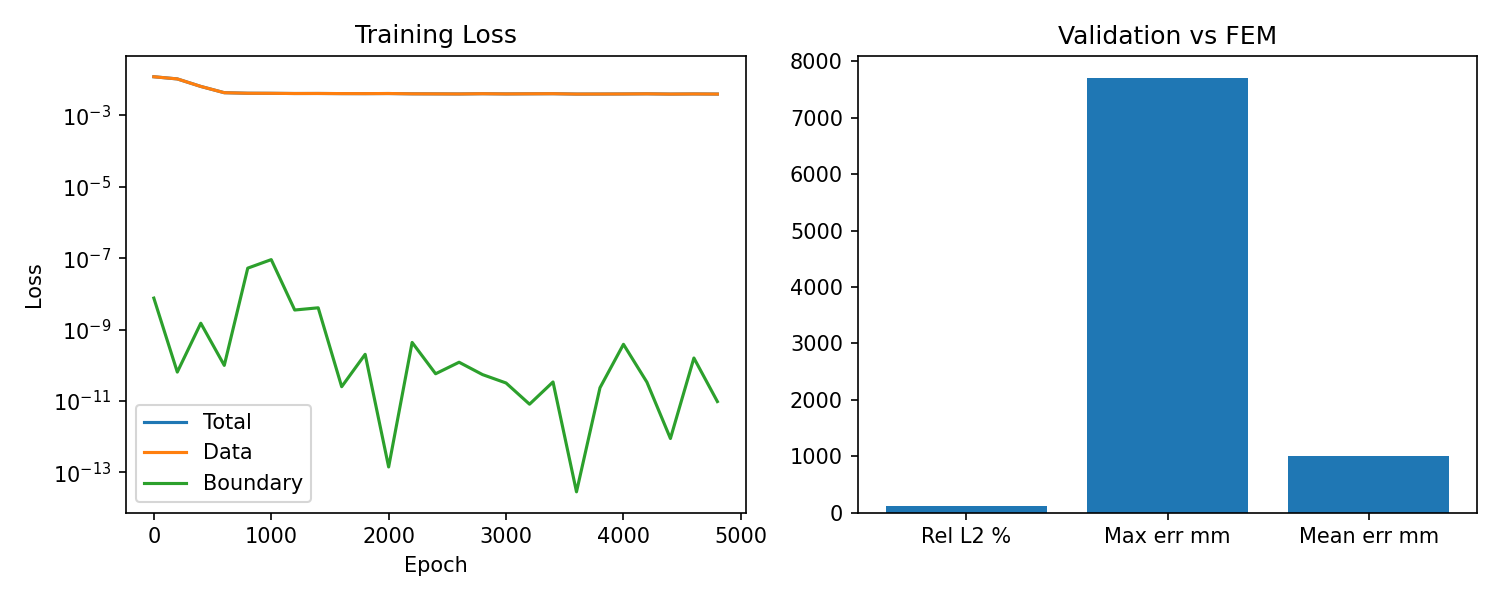
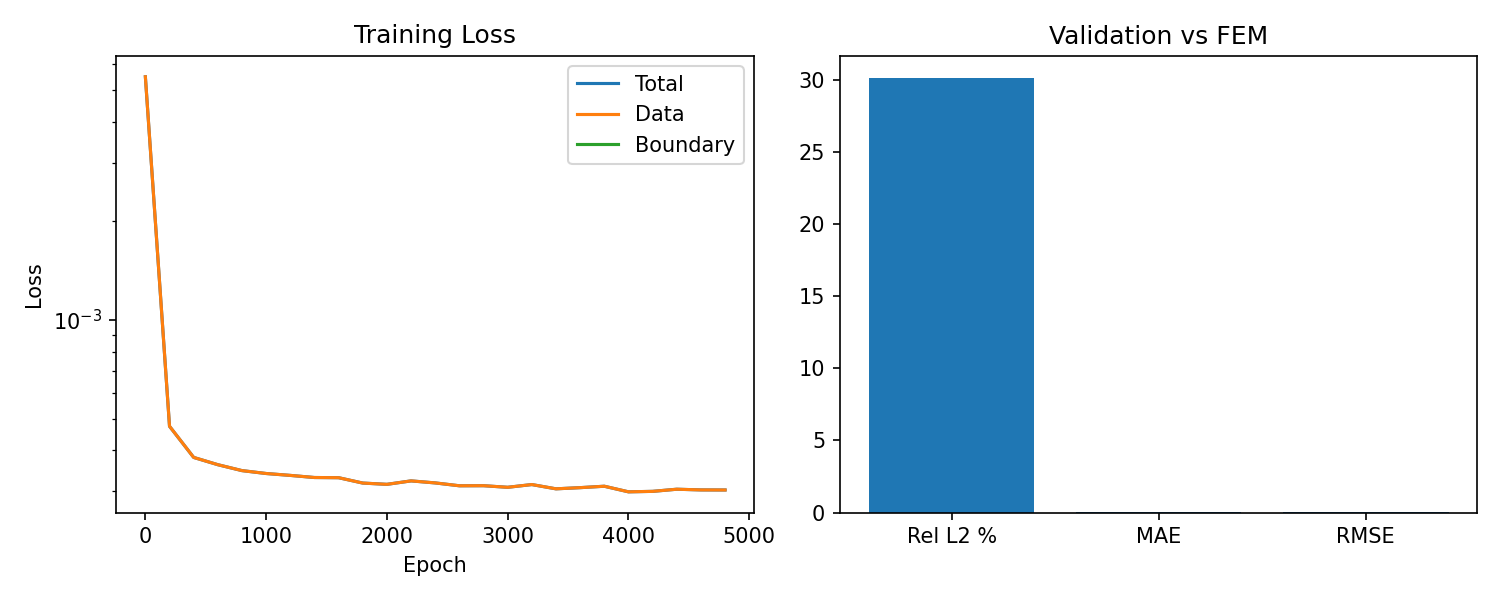
changes

diff --git a/train/train_pinn.py b/train/train_pinn.py
@@ -51,10 +51,13 @@ print(f"Rows after cleaning: {len(df)}")
 print(f"  Rows loaded: {len(df)}")
 print(f"  Columns:     {len(df.columns)}")
 
-# Compute compressed solver features
-force_cols_x = [f'fvx{i}' for i in range(181)]
-force_cols_y = [f'fvy{i}' for i in range(181)]
-force_cols_z = [f'fvz{i}' for i in range(181)]
+# Compute compressed solver features (use actual columns present)
+force_cols_x = sorted(
+    [c for c in df.columns if c.startswith('fvx')],
+    key=lambda c: int(c[3:])
+)
+force_cols_y = [c.replace('fvx', 'fvy', 1) for c in force_cols_x]
+force_cols_z = [c.replace('fvx', 'fvz', 1) for c in force_cols_x]
 vel_cols_y   = [f'vvy{i}' for i in range(181)]
 prev_cols_y  = [f'pdy{i}' for i in range(181)]
 prev_dy_cols = [f'pdy{i}' for i in range(181)]
@@ -81,28 +84,72 @@ print(df['f_total_z'].describe())
 print(df['f_max_mag'].describe())
 print(df['f_n_contact'].describe())
 
-prev_dx_cols = [f'pdx{i}' for i in range(181)]
-prev_dy_cols = [f'pdy{i}' for i in range(181)]
-prev_dz_cols = [f'pdz{i}' for i in range(181)]
+# Pick the most active vertex (skip fixed indices)
+dy_cols = [c for c in df.columns if c.startswith('dy')]
+dy_max = df[dy_cols].abs().max()
+best_vertex_id = None
+for col in dy_max.sort_values(ascending=False).index:
+    vid = int(col[2:])
+    if vid not in FIXED_INDICES:
+        best_vertex_id = vid
+        break
+if best_vertex_id is None:
+    best_vertex_id = 0
+print(f"Most active vertex: {best_vertex_id}")
+
+
+prev_dx_cols = [f'pdx{i}' for i in range(181) if i not in FIXED_INDICES]
+prev_dy_cols = [f'pdy{i}' for i in range(181) if i not in FIXED_INDICES]
+prev_dz_cols = [f'pdz{i}' for i in range(181) if i not in FIXED_INDICES]
+
+
+# df['curr_delta_x'] = df[f'dx{best_vertex_id}'] - df[f'pdx{best_vertex_id}']
+# df['curr_delta_y'] = df[f'dy{best_vertex_id}'] - df[f'pdy{best_vertex_id}']
+# df['curr_delta_z'] = df[f'dz{best_vertex_id}'] - df[f'pdz{best_vertex_id}']
+prev_all_cols = []
+for i in range(N_VERTICES):
+    if i not in FIXED_INDICES:
+        prev_all_cols += [f'pdx{i}', f'pdy{i}', f'pdz{i}']
+
+
+# Compressed accumulated stress (summary stats, not all 543)
+sax_cols = [f'sax{i}' for i in range(181)]
+say_cols = [f'say{i}' for i in range(181)]
+
+df['stress_max'] = np.sqrt(
+    df[sax_cols].values**2 + 
+    df[say_cols].values**2).max(axis=1)
+df['stress_mean'] = np.sqrt(
+    df[sax_cols].values**2 + 
+    df[say_cols].values**2).mean(axis=1)
+df['stress_n_active'] = (df[say_cols].abs() > 0.001).sum(axis=1)
+
 
 input_cols = [
     'tool_x',    'tool_y',    'tool_z',
     'tool_vx',   'tool_vy',   'tool_vz',
     'tool_fx',   'tool_fy',   'tool_fz',
-    'v_max_mag',
-    'pd_max_mag','pd_mean_mag',
-] + prev_dx_cols + prev_dy_cols + prev_dz_cols  # ← add previous displacements as inputs for temporal context
+    'stress_max', 'stress_mean', 'stress_n_active',  # ← ADD
+ ]+ prev_all_cols
 
-N_INPUTS = 555  # 9 original + 3 force features + 3 velocity features + 543 previous displacements = 558 total inputs
 
-# ── Outputs (N_VERTICES * 3 values) ──────────────────────────
+df = df.dropna().copy()
+# ── 4. Dynamic Dimensionality (No Hardcoding!) ───────────────────────────────
+N_INPUTS = len(input_cols)  # Dynamically evaluates to 27, ensuring no PyTorch crashes
+
+# ── 5. Align Outputs with What We Want to Predict ────────────────────────────
+# We are predicting the frame-to-frame delta movements
 deform_cols = []
 for i in range(N_VERTICES):
-    deform_cols += [f'dx{i}', f'dy{i}', f'dz{i}']
+    if i not in FIXED_INDICES:
+        deform_cols += [f'dx{i}', f'dy{i}', f'dz{i}']
+N_OUT = len(deform_cols)  # 178 * 3 = 534
 
 # Check all columns exist
 missing_in = [c for c in input_cols  if c not in df.columns]
 missing_out= [c for c in deform_cols if c not in df.columns]
+
+
 if missing_in:
     raise ValueError(f"Missing input columns: {missing_in}\n"
                      f"Available: {list(df.columns[:15])}")
@@ -117,13 +164,10 @@ idx = torch.argmin(stds)
 print("Smallest std column:", input_cols[idx])
 print("X std min/max:", stds.min().item(), "/", stds.max().item())
 
-# Remove zero variance columns
-valid_mask = stds > 1e-6
-input_cols = [c for c, v in zip(input_cols, valid_mask.tolist()) if v]
 N_INPUTS = len(input_cols)
-X_raw_tensor = X_raw_tensor[:, valid_mask]
-print(f"Valid inputs after removing zero-variance: {N_INPUTS}")
-Y_raw_tensor = torch.FloatTensor(df[deform_cols].values)  # (N, 543)
+print(f"Inputs kept (no variance filtering): {N_INPUTS}")
+
+Y_raw_tensor = torch.FloatTensor(df[deform_cols].values)  # (N, 3)
 
 force_mag = X_raw_tensor[:, 6:9].norm(dim=1)
 force_mask = force_mag > 0.01
@@ -142,16 +186,16 @@ Y_all = Y_raw_tensor
 
 # ── Chronological Split (Prevents data leakage!) ───────────────
 # ADD before n_train split:
-perm = torch.randperm(len(X_all))
-X_all = X_all[perm]
-Y_all = Y_all[perm]
+perm_all = torch.randperm(len(X_all))
+X_all_shuffled = X_all[perm_all]
+Y_all_shuffled = Y_all[perm_all]
 n_train = int(TRAIN_SPLIT * len(X_all))
 
 X_train_raw = X_all[:n_train]
 Y_train_raw = Y_all[:n_train]
 
-X_test_raw = X_all[n_train:]
-Y_test_raw = Y_all[n_train:]  # Held out clean test data
+X_test_raw = X_all_shuffled[n_train:]
+Y_test_raw = Y_all_shuffled[n_train:]  # Held out clean test data
 
 Y_scale = float(Y_all.abs().max().item()) * 1.1
 print(f"  Y_scale from full data: {Y_scale:.4f}")
@@ -228,6 +272,8 @@ def loss_boundary(u_pred, fixed_idx):
     total = torch.tensor(0.0, device=u_pred.device)  # ← same device as u_pred
     for vi in fixed_idx:
         # NEW METHOD
+        if u_pred.shape[1] == 3:
+            return torch.tensor(0.0, device=u_pred.device)
         u_reshaped = u_pred.reshape(-1, 181, 3) 
         total = total + torch.mean(u_reshaped[:, vi, : ] ** 2)
     return total / len(fixed_idx)
@@ -295,14 +341,10 @@ for epoch in range(start_epoch, N_EPOCHS):
         # Data loss
         L_data = loss_data(u_pred, Y_batch)
 
-        # Boundary condition loss
-        # Convert prediction back to physical scale for BC loss
-        L_bc = loss_boundary(u_pred, FIXED_INDICES)
-
         # Physics weight — ramp up slowly
+        L_bc = loss_boundary(u_pred, FIXED_INDICES)
         progress = epoch / N_EPOCHS
-        w_bc = 0.1 + 0.4 * progress   
-
+        w_bc = 0.1 + 0.4 * progress
         L = L_data + w_bc * L_bc
 
         optimizer.zero_grad()
@@ -375,9 +417,14 @@ with torch.no_grad():
     rel_err = torch.norm(u_pred - u_true) / (torch.norm(u_true) + 1e-8)
     print(f"Relative L2 error:        {rel_err.item()*100:.2f}%")
 
-    # Pure PyTorch tracking avoids array type errors
-    diff = (u_pred - u_true).reshape(-1, N_VERTICES, 3)
-    per_vertex_err = torch.norm(diff, dim=2)
+    if N_OUT == 3:
+        per_sample_err = torch.norm(u_pred - u_true, dim=1)
+        print(f"Mean delta error:         {per_sample_err.mean().item():.6f}")
+        print(f"Max delta error:          {per_sample_err.max().item():.6f}")
+    else:
+        # Pure PyTorch tracking avoids array type errors
+        diff = (u_pred - u_true).reshape(-1, N_VERTICES, 3)
+        per_vertex_err = torch.norm(diff, dim=2)
 
     # ADD — visual comparison of one sample
     import matplotlib
@@ -391,49 +438,55 @@ with torch.no_grad():
     axes[0].set_title('Sample 0: Full deformation')
     axes[0].legend()
 
-    # Plot 2 — worst sample
-    worst_idx = per_vertex_err.max(dim=1).values.argmax().item()
-    axes[1].plot(u_true[worst_idx].numpy(), label='FEM true', alpha=0.7)
-    axes[1].plot(u_pred[worst_idx].numpy(), label='PINN pred', alpha=0.7)
-    axes[1].set_title(f'Worst sample ({worst_idx})')
-    axes[1].legend()
+    if N_OUT != 3:
+        # Plot 2 — worst sample
+        worst_idx = per_vertex_err.max(dim=1).values.argmax().item()
+        axes[1].plot(u_true[worst_idx].numpy(), label='FEM true', alpha=0.7)
+        axes[1].plot(u_pred[worst_idx].numpy(), label='PINN pred', alpha=0.7)
+        axes[1].set_title(f'Worst sample ({worst_idx})')
+        axes[1].legend()
 
-    # Plot 3 — best sample
-    best_idx = per_vertex_err.max(dim=1).values.argmin().item()
-    axes[2].plot(u_true[best_idx].numpy(), label='FEM true', alpha=0.7)
-    axes[2].plot(u_pred[best_idx].numpy(), label='PINN pred', alpha=0.7)
-    axes[2].set_title(f'Best sample ({best_idx})')
-    axes[2].legend()
+        # Plot 3 — best sample
+        best_idx = per_vertex_err.max(dim=1).values.argmin().item()
+        axes[2].plot(u_true[best_idx].numpy(), label='FEM true', alpha=0.7)
+        axes[2].plot(u_pred[best_idx].numpy(), label='PINN pred', alpha=0.7)
+        axes[2].set_title(f'Best sample ({best_idx})')
+        axes[2].legend()
 
     plt.tight_layout()
     plt.savefig('sample_comparison.png', dpi=150)
     print("Sample comparison saved to sample_comparison.png")
     
-    # Removed the multiplication by Y_scale since u_pred and u_true are already in raw physical scales
-    # CHANGE TO:
-    max_err_mm = per_vertex_err.max().item() * Y_scale * 1000
-    mean_err_mm = per_vertex_err.mean().item() * Y_scale * 1000
 
-    print(f"Max vertex error:         {max_err_mm:.3f} mm")
-    print(f"Mean vertex error:        {mean_err_mm:.4f} mm")
+    if N_OUT != 3:
+        # Removed the multiplication by Y_scale since u_pred and u_true are already in raw physical scales
+        # CHANGE TO:
+        max_err_mm = per_vertex_err.max().item() * Y_scale * 1000
+        mean_err_mm = per_vertex_err.mean().item() * Y_scale * 1000
 
-    # ← ADD HERE ↓
-    contact_mask = (np.linalg.norm(Y_test.numpy(), axis=1) > 0.001)
-    print(f"Contact frames in test:   {contact_mask.sum().item()} / {len(contact_mask)}")
+        print(f"Max vertex error:         {max_err_mm:.3f} mm")
+        print(f"Mean vertex error:        {mean_err_mm:.4f} mm")
 
-    rel_err_contact = torch.norm(u_pred[contact_mask] - u_true[contact_mask]) / \
-                    (torch.norm(u_true[contact_mask]) + 1e-8)
-    print(f"Relative L2 error (contact only): {rel_err_contact.item()*100:.2f}%")
+    
+        # ← ADD HERE ↓
+        contact_mask = (np.linalg.norm(Y_test.numpy(), axis=1) > 0.001)
+        print(f"Contact frames in test:   {contact_mask.sum().item()} / {len(contact_mask)}")
 
-    # Boundary condition check
-    for vi in FIXED_INDICES:
-        cols = slice(3*vi, 3*vi+3)
-        fixed_err = u_pred[:, cols].abs().max().item() * 1000
-        print(f"Fixed vertex {vi:3d} max disp: {fixed_err:.4f} mm")
+        rel_err_contact = torch.norm(u_pred[contact_mask] - u_true[contact_mask]) / \
+                        (torch.norm(u_true[contact_mask]) + 1e-8)
+        print(f"Relative L2 error (contact only): {rel_err_contact.item()*100:.2f}%")
 
-    # What % of test samples are within 1mm error?
-    within_1mm = (per_vertex_err.max(dim=1).values < 0.001 / Y_scale).float().mean().item()
-    print(f"Samples within 1mm:       {within_1mm*100:.1f}%")
+    if N_OUT != 3:
+        # Boundary condition check
+        for vi in FIXED_INDICES:
+            cols = slice(3*vi, 3*vi+3)
+            fixed_err = u_pred[:, cols].abs().max().item() * 1000
+            print(f"Fixed vertex {vi:3d} max disp: {fixed_err:.4f} mm")
+
+    if N_OUT != 3:
+        # What % of test samples are within 1mm error?
+        within_1mm = (per_vertex_err.max(dim=1).values < 0.001 / Y_scale).float().mean().item()
+        print(f"Samples within 1mm:       {within_1mm*100:.1f}%")
 
     # ADD in Step 5 validation:
     print("Train target mean abs:", Y_train.abs().mean().item())
@@ -478,8 +531,8 @@ plt.title('Training Loss')
 plt.yscale('log')
 
 plt.subplot(1, 2, 2)
-plt.bar(['Rel L2 %', 'Max err mm', 'Mean err mm'],
-        [rel_err.item()*100, max_err_mm, mean_err_mm])
+plt.bar(['Rel L2 %', 'MAE', 'RMSE'],
+        [rel_err.item()*100, mae.item(), rmse.item()])
 plt.title('Validation vs FEM')
 
 plt.tight_layout()

diff --git a/train/pinn_model.py b/train/pinn_model.py
@@ -4,20 +4,18 @@ import numpy as np
 
 
 class LiverPINN(nn.Module):
-    def __init__(self, n_output: int, n_inputs: int = 555):  # ← add n_inputs
+    def __init__(self, n_output: int, n_inputs: int = 543):  # ← add n_inputs
         super().__init__()
         self.n_output = n_output
 
         # Fourier encoding — now maps 90D input
         self.n_fourier = 256
-        self.register_buffer('B', torch.randn(n_inputs, self.n_fourier) * 2.0)
+        self.register_buffer('B', torch.randn(n_inputs, self.n_fourier) * 2)
 
         n_in = 2 * self.n_fourier  # 128
 
         self.net = nn.Sequential(
             nn.Linear(n_in, 512),
-            nn.Tanh(),
-            nn.Linear(512, 512),
             nn.Tanh(),
             nn.Linear(512, 512),
             nn.Tanh(),